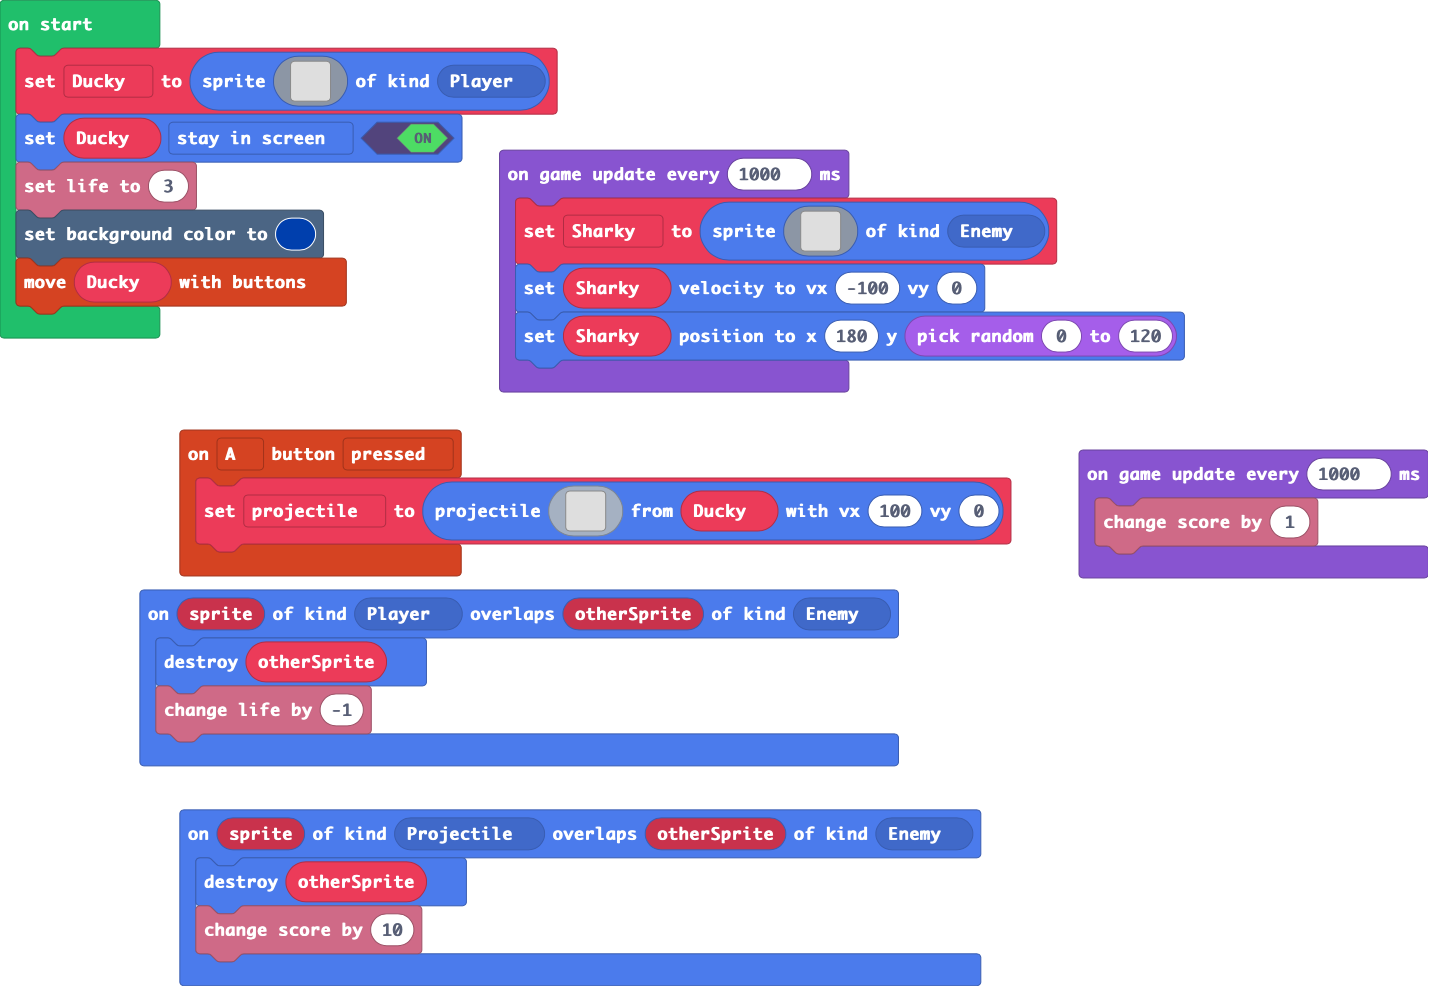
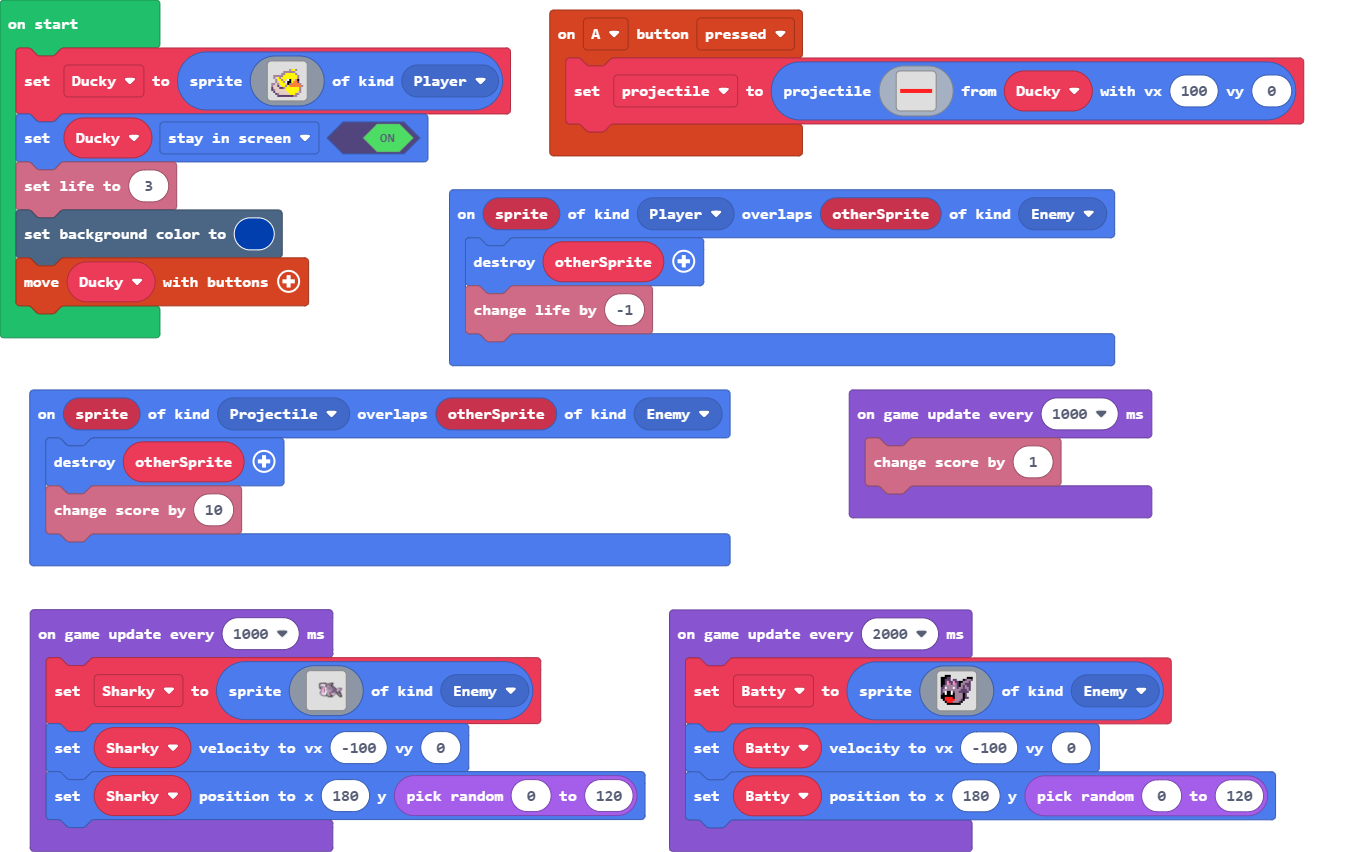
Update main.blocks, main.ts

diff --git a/main.ts b/main.ts
@@ -26,8 +26,8 @@ sprites.onOverlap(SpriteKind.Player, SpriteKind.Enemy, function (sprite, otherSp
     otherSprite.destroy()
     info.changeLifeBy(-1)
 })
-let Batty: Sprite = null
 let Sharky: Sprite = null
+let Batty: Sprite = null
 let projectile: Sprite = null
 let Ducky: Sprite = null
 Ducky = sprites.create(img`
@@ -52,6 +52,28 @@ Ducky.setFlag(SpriteFlag.StayInScreen, true)
 info.setLife(3)
 scene.setBackgroundColor(8)
 controller.moveSprite(Ducky)
+game.onUpdateInterval(2000, function () {
+    Batty = sprites.create(img`
+        . . f f f . . . . . . . . . . . 
+        f f f c c . . . . . . . . f f f 
+        f f c c c . c c . . . f c b b c 
+        f f c 3 c c 3 c c f f b b b c . 
+        f f c 3 b c 3 b c f b b c c c . 
+        f c b b b b b b c f b c b c c . 
+        c c 1 b b b 1 b c b b c b b c . 
+        c b b b b b b b b b c c c b c . 
+        c b 1 f f 1 c b b c c c c c . . 
+        c f 1 f f 1 f b b b b f c . . . 
+        f f f f f f f b b b b f c . . . 
+        f f 2 2 2 2 f b b b b f c c . . 
+        . f 2 2 2 2 2 b b b c f . . . . 
+        . . f 2 2 2 b b b c f . . . . . 
+        . . . f f f f f f f . . . . . . 
+        . . . . . . . . . . . . . . . . 
+        `, SpriteKind.Enemy)
+    Batty.setVelocity(-100, 0)
+    Batty.setPosition(180, randint(0, 120))
+})
 game.onUpdateInterval(1000, function () {
     info.changeScoreBy(1)
 })
@@ -76,26 +98,4 @@ game.onUpdateInterval(1000, function () {
         `, SpriteKind.Enemy)
     Sharky.setVelocity(-100, 0)
     Sharky.setPosition(180, randint(0, 120))
-})
-game.onUpdateInterval(1000, function () {
-    Batty = sprites.create(img`
-        . . f f f . . . . . . . . . . . 
-        f f f c c . . . . . . . . f f f 
-        f f c c c . c c . . . f c b b c 
-        f f c 3 c c 3 c c f f b b b c . 
-        f f c 3 b c 3 b c f b b c c c . 
-        f c b b b b b b c f b c b c c . 
-        c c 1 b b b 1 b c b b c b b c . 
-        c b b b b b b b b b c c c b c . 
-        c b 1 f f 1 c b b c c c c c . . 
-        c f 1 f f 1 f b b b b f c . . . 
-        f f f f f f f b b b b f c . . . 
-        f f 2 2 2 2 f b b b b f c c . . 
-        . f 2 2 2 2 2 b b b c f . . . . 
-        . . f 2 2 2 b b b c f . . . . . 
-        . . . f f f f f f f . . . . . . 
-        . . . . . . . . . . . . . . . . 
-        `, SpriteKind.Enemy)
-    Batty.setVelocity(-100, 0)
-    Batty.setPosition(180, randint(0, 120))
 })
